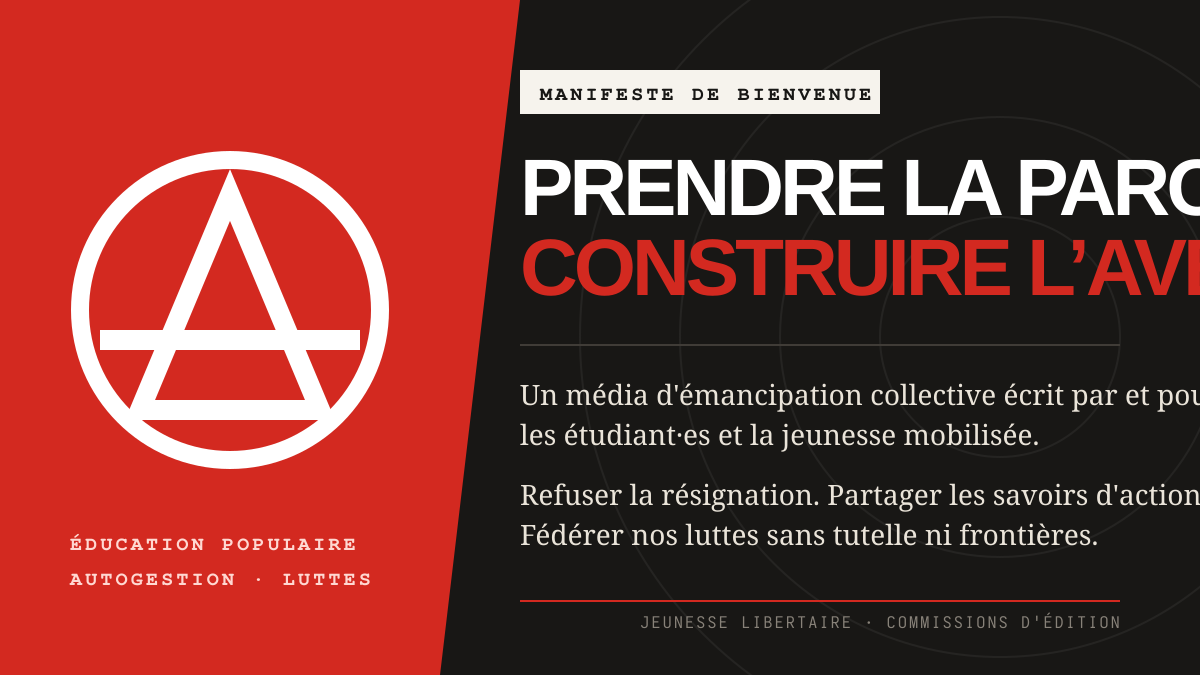
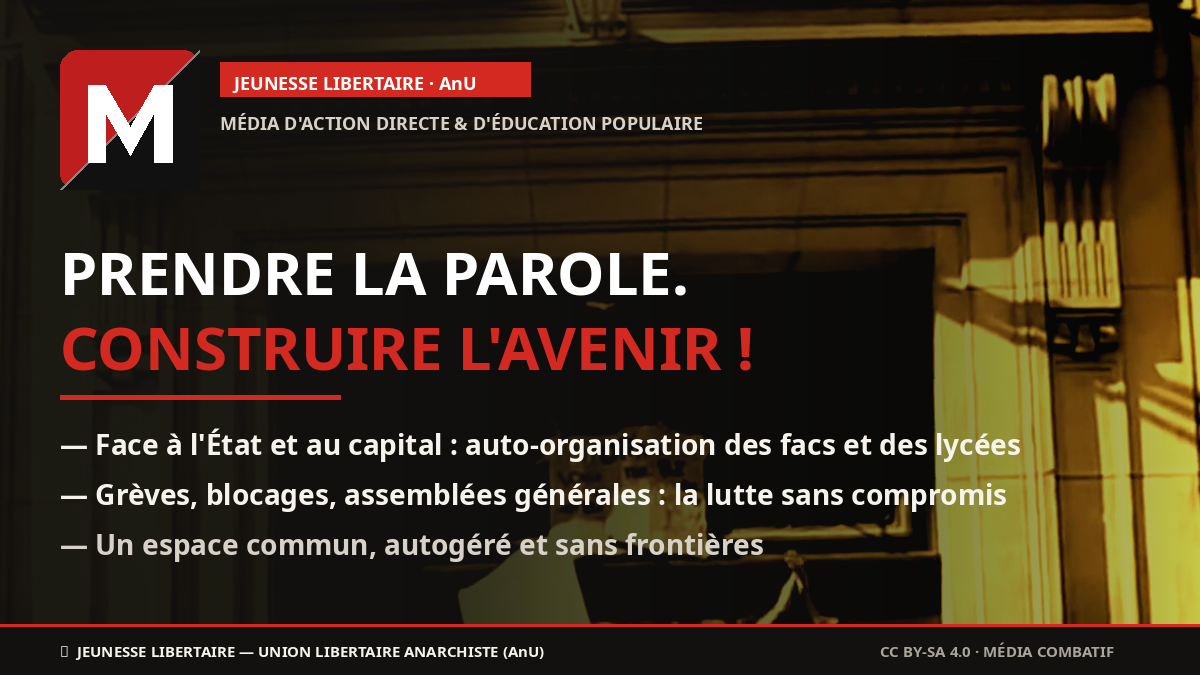
feat(assets): miniature avec jeunes en action et blason AnU

diff --git a/generate_miniature.py b/generate_miniature.py
@@ -1,0 +1,109 @@
+import os
+from PIL import Image, ImageDraw, ImageFont, ImageFilter, ImageEnhance
+
+W, H = 1200, 675
+
+# 1. Load background action shot
+# action_shot1 is 1080x1920 (vertical). Crop and scale to 1200x675
+bg = Image.open("/tmp/action_shot1.jpg").convert("RGBA")
+# Crop center region
+crop_w = bg.width
+crop_h = int(crop_w * (H / W))
+top = int((bg.height - crop_h) * 0.35)
+bg_cropped = bg.crop((0, top, crop_w, top + crop_h)).resize((W, H), Image.Resampling.LANCZOS)
+
+# Enhance contrast and saturation for high impact
+bg_cropped = ImageEnhance.Contrast(bg_cropped).enhance(1.25)
+bg_cropped = ImageEnhance.Color(bg_cropped).enhance(1.15)
+
+# Darken / vignette overlay so text pops
+overlay = Image.new("RGBA", (W, H), (0, 0, 0, 0))
+draw_ol = ImageDraw.Draw(overlay)
+
+# Dark gradient from left (where text and logo are)
+for x in range(W):
+    # gradient alpha from 0.88 on left to 0.4 on right
+    factor = 1.0 - (x / W)
+    alpha = int(240 * (factor ** 0.8) + 60)
+    draw_ol.line([(x, 0), (x, H)], fill=(18, 17, 15, min(alpha, 245)))
+
+# Add red tint diagonal slash across bottom-left
+for y in range(H):
+    alpha_red = max(0, int(160 * (1.0 - (y / H) ** 0.5)))
+    # draw_ol.line([(0, y), (int(W * 0.4), y)], fill=(211, 41, 32, alpha_red))
+
+composite = Image.alpha_composite(bg_cropped, overlay)
+
+# 2. Render AnU Logo in top-left
+# Vector AnU logo: red rounded rect, diagonal cut with black, white M/star
+logo_anu = Image.new("RGBA", (140, 140), (0, 0, 0, 0))
+d_anu = ImageDraw.Draw(logo_anu)
+# red base with rounded corners
+d_anu.rounded_rectangle([0, 0, 140, 140], radius=18, fill=(190, 30, 30, 255))
+# black diagonal cut: polygon [140,0 140,140 0,140]
+d_anu.polygon([(140, 0), (140, 140), (0, 140)], fill=(17, 17, 17, 255))
+# fine separator line
+d_anu.line([(0, 140), (140, 0)], fill=(255, 255, 255, 120), width=2)
+
+# White M-like symbol coordinates scaled from original 400x400:
+# [80,320 80,100 130,100 200,220 270,100 320,100 320,320 270,320 270,180 200,300 130,180 130,320]
+scale = 140.0 / 400.0
+pts = [
+    (80*scale, 320*scale), (80*scale, 100*scale), (130*scale, 100*scale),
+    (200*scale, 220*scale), (270*scale, 100*scale), (320*scale, 100*scale),
+    (320*scale, 320*scale), (270*scale, 320*scale), (270*scale, 180*scale),
+    (200*scale, 300*scale), (130*scale, 180*scale), (130*scale, 320*scale)
+]
+d_anu.polygon(pts, fill=(255, 255, 255, 255))
+
+# Paste AnU logo at (60, 50)
+composite.paste(logo_anu, (60, 50), logo_anu)
+
+# 3. Typography drawing
+draw = ImageDraw.Draw(composite)
+
+# Try system fonts
+font_paths = [
+    "/usr/share/fonts/google-noto/NotoSans-Bold.ttf",
+    "/usr/share/fonts/dejavu-sans-fonts/DejaVuSans-Bold.ttf",
+    "/usr/share/fonts/liberation-sans/LiberationSans-Bold.ttf",
+]
+fpath = "/usr/share/fonts/dejavu-sans-fonts/DejaVuSans-Bold.ttf"
+for p in font_paths:
+    if os.path.exists(p):
+        fpath = p
+        break
+
+f_super = ImageFont.truetype(fpath, 18)
+f_h1 = ImageFont.truetype(fpath, 60)
+f_sub = ImageFont.truetype(fpath, 28)
+f_footer = ImageFont.truetype(fpath, 15)
+
+# Badge next to logo
+draw.rectangle([220, 62, 530, 96], fill=(211, 41, 32, 240))
+draw.text((234, 70), "JEUNESSE LIBERTAIRE · AnU", fill=(255, 255, 255), font=f_super)
+
+draw.text((220, 110), "MÉDIA D'ACTION DIRECTE & D'ÉDUCATION POPULAIRE", fill=(215, 209, 200), font=f_super)
+
+# Headline
+draw.text((60, 230), "PRENDRE LA PAROLE.", fill=(255, 255, 255), font=f_h1)
+# Shadow / stroke for punch
+draw.text((60, 305), "CONSTRUIRE L'AVENIR !", fill=(211, 41, 32), font=f_h1)
+
+# Solid highlight bar
+draw.rectangle([60, 395, 340, 399], fill=(211, 41, 32))
+
+# Subtitles / bullets
+draw.text((60, 425), "— Face à l'État et au capital : auto-organisation des facs et des lycées", fill=(246, 243, 237), font=f_sub)
+draw.text((60, 475), "— Grèves, blocages, assemblées générales : la lutte sans compromis", fill=(246, 243, 237), font=f_sub)
+draw.text((60, 525), "— Un espace commun, autogéré et sans frontières", fill=(215, 209, 200), font=f_sub)
+
+# Bottom bar
+draw.rectangle([0, 625, W, 675], fill=(18, 17, 15, 255))
+draw.line([(0, 625), (W, 625)], fill=(211, 41, 32), width=3)
+draw.text((60, 640), "Ⓐ  JEUNESSE LIBERTAIRE — UNION LIBERTAIRE ANARCHISTE (AnU)", fill=(246, 243, 237), font=f_footer)
+draw.text((W - 320, 640), "CC BY-SA 4.0 · MÉDIA COMBATIF", fill=(170, 165, 156), font=f_footer)
+
+final_img = composite.convert("RGB")
+final_img.save("/home/anar/jeunesse-libertaire/assets/bienvenue-miniature.png", quality=95)
+print("MINIATURE_GENERATED_SUCCESSFULLY")
